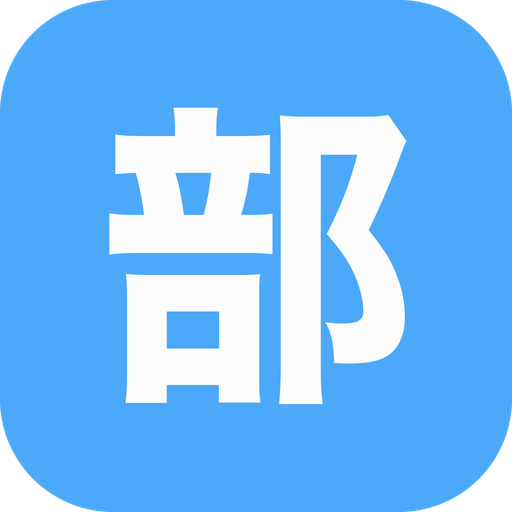
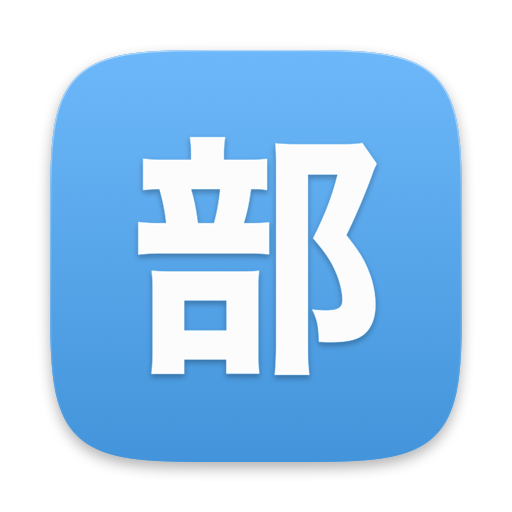
feat(maintenance): add cache menu on the main keyword
Cache menu on the main keyword, named cache rows, plain pyright, row icons on the macOS grid.

diff --git a/tests/test_maintenance.py b/tests/test_maintenance.py
@@ -1,0 +1,47 @@
+import json
+import subprocess
+from pathlib import Path
+
+SCRIPT = Path(__file__).resolve().parents[1] / "src" / "maintenance.sh"
+FILE_COUNT = 2
+
+
+def run(cache: Path, *args: str) -> str:
+    return subprocess.run(  # noqa: S603
+        ["/bin/bash", str(SCRIPT), *args],
+        env={
+            "alfred_workflow_cache": str(cache),
+            "alfred_workflow_name": ".Sample",
+            "PATH": "/usr/bin:/bin",
+            "LANG": "en_US.UTF-8",
+        },
+        capture_output=True,
+        text=True,
+        check=True,
+    ).stdout
+
+
+def test_menu_shows_cache_size_and_file_count(tmp_path: Path) -> None:
+    (tmp_path / "a.json").write_text("x" * 2048)
+    (tmp_path / "b.json").write_text("y")
+    rows = json.loads(run(tmp_path, "--menu", "feeds"))["items"]
+    assert rows[0]["title"].startswith("Sample cache: ")
+    assert rows[0]["subtitle"].startswith(f"feeds・{FILE_COUNT} files・")
+    assert rows[0]["icon"] == {"path": "icon.png"}
+    assert rows[1]["title"] == "Empty Sample Cache"
+    assert rows[1]["subtitle"] == "Delete feeds; fetched again when needed"
+    assert [row["arg"] for row in rows] == ["--reveal", "--clear"]
+
+
+def test_missing_cache_is_empty(tmp_path: Path) -> None:
+    rows = json.loads(run(tmp_path / "missing"))["items"]
+    assert rows[0]["title"] == "Sample cache: 0 KB"
+    assert rows[0]["subtitle"].startswith("cached data・0 files")
+
+
+def test_clear_empties_the_cache_and_keeps_the_folder(tmp_path: Path) -> None:
+    (tmp_path / "nested").mkdir()
+    (tmp_path / "nested" / "c.json").write_text("z")
+    assert run(tmp_path, "--clear") == "Cache emptied\n"
+    assert tmp_path.is_dir()
+    assert list(tmp_path.iterdir()) == []

diff --git a/README.md b/README.md
@@ -37,6 +37,10 @@ Open the Summary view to see your current WaniKani progress.
 
 ![WaniKani progress summary](images/about/summary.png)
 
+### Maintenance
+
+- `:wk` - cache size (Enter reveals the folder) and Empty Cache.
+
 ## Install
 
 1. Download the latest `WaniKani.alfredworkflow` from [Releases](https://github.com/aleksgorbenko/alfred-workflow-wanikani/releases).
